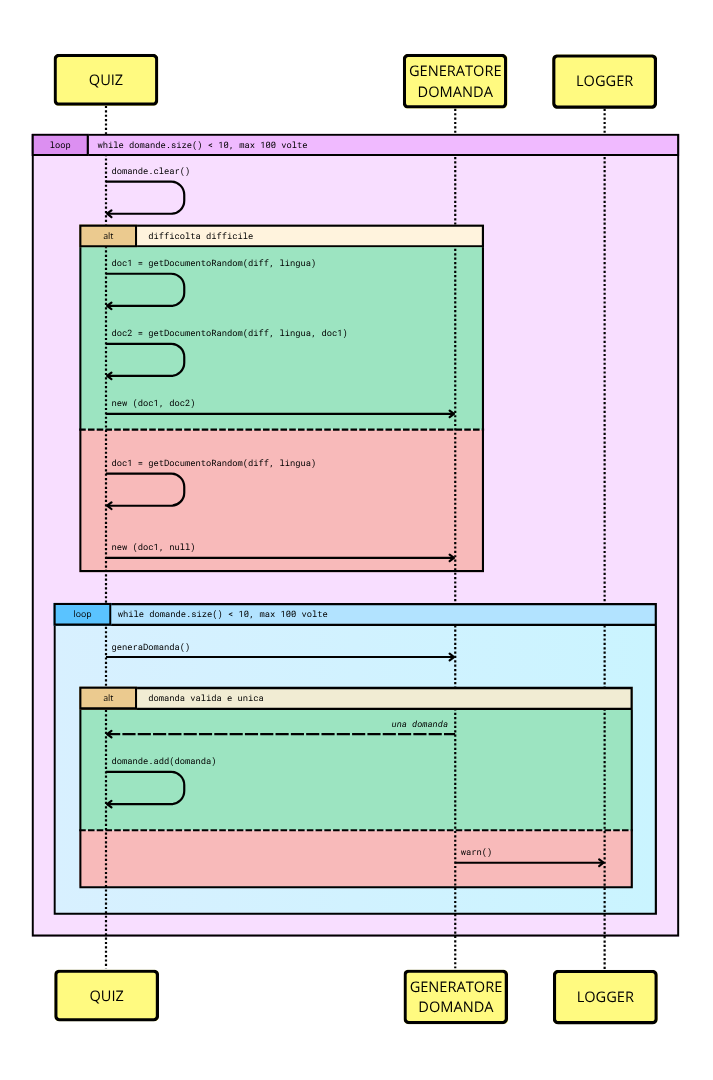
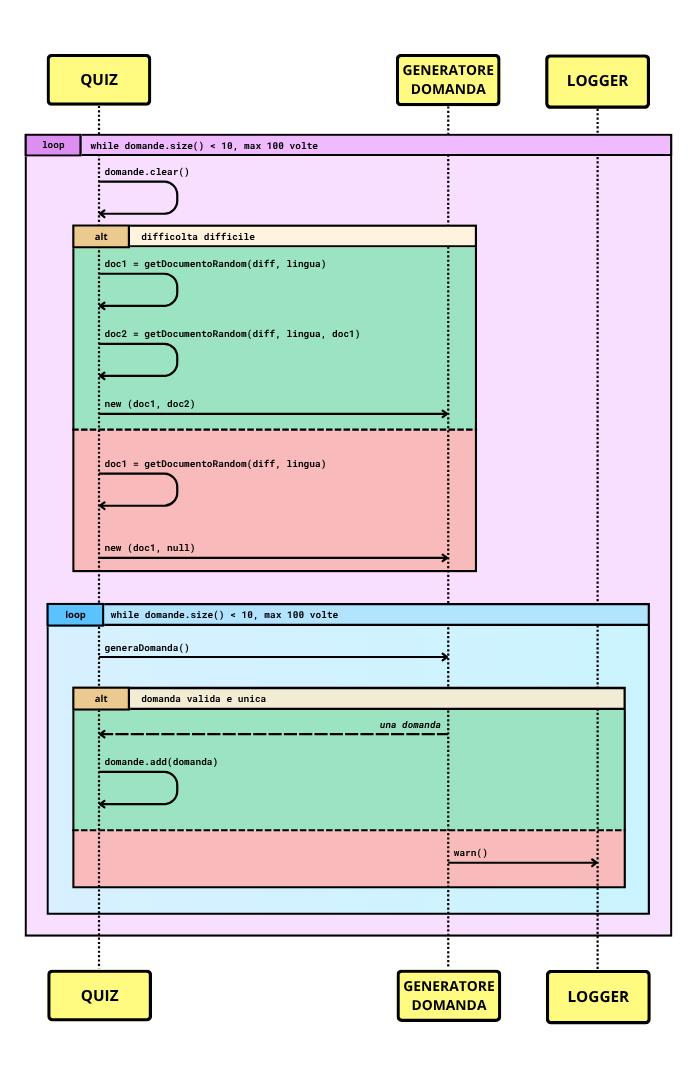
Aggiornato il diagramma con una versione più leggibile

diff --git a/src/main/java/com/example/progettowordageddon/model/Quiz.java b/src/main/java/com/example/progettowordageddon/model/Quiz.java
@@ -18,7 +18,7 @@ import java.util.ArrayList;
 ///
 /// Se il sistema non riesce a generare 10 domande valide dopo 100 tentativi, solleva un'eccezione.
 ///
-/// \image html SeqDia_newQuiz.png width=80%
+/// \image html SeqDia_newQuiz.png width=50%
 public class Quiz implements Serializable {
 
     /// @brief Lista delle domande che compongono il quiz.
